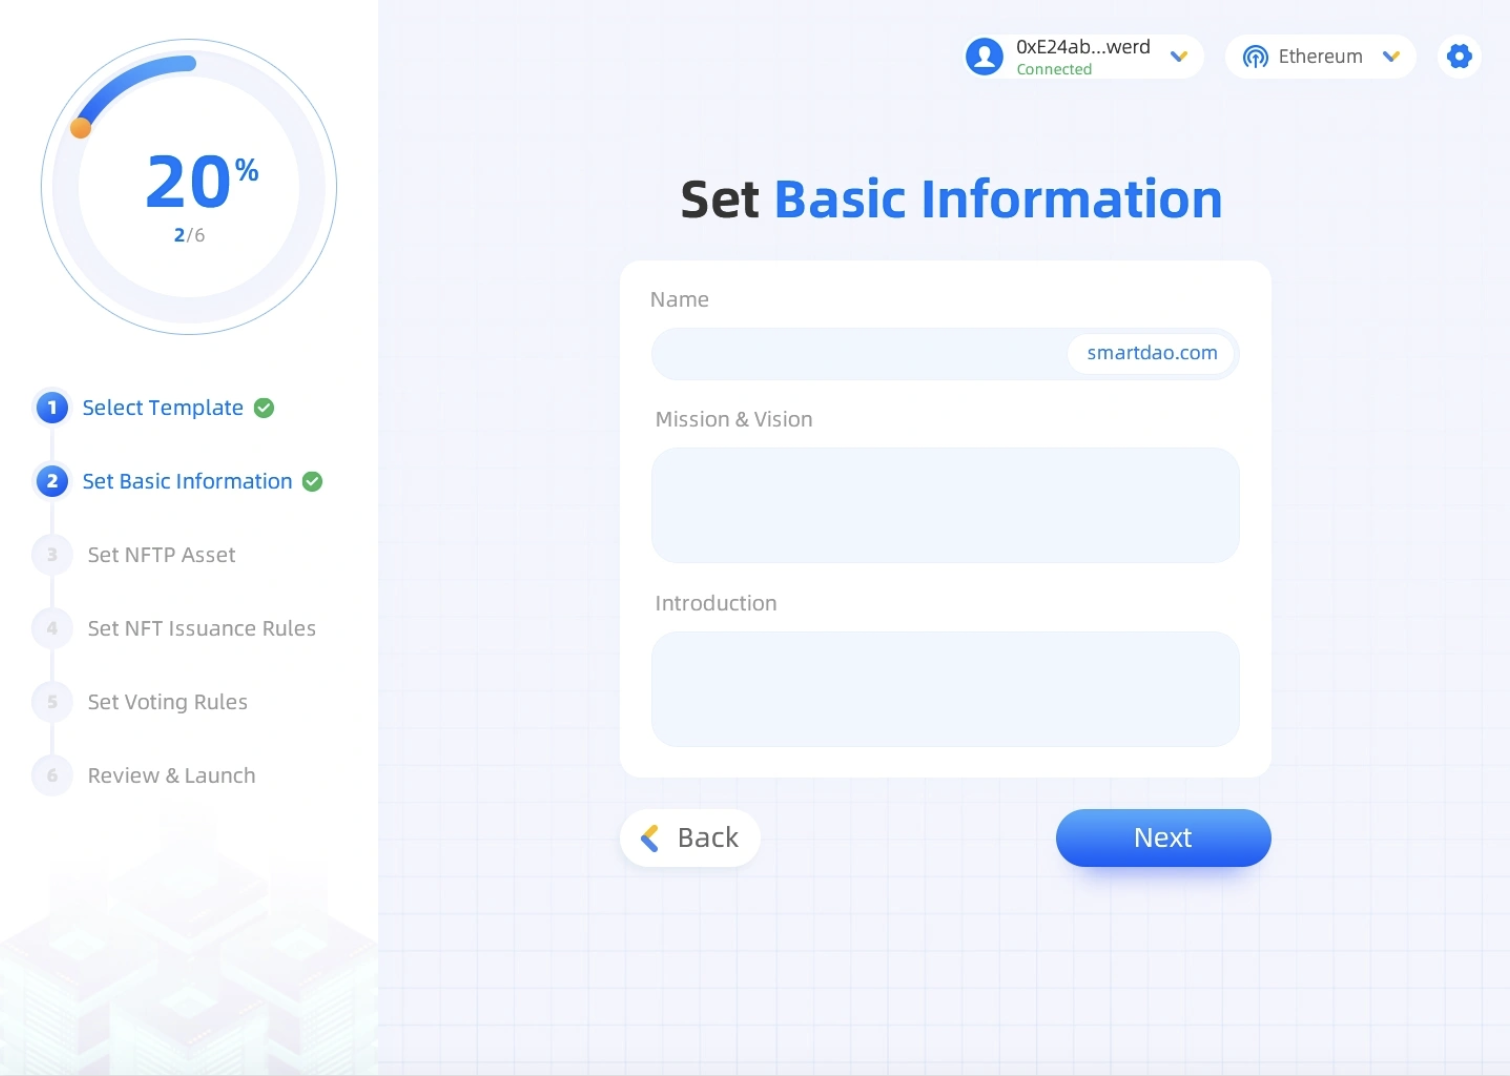
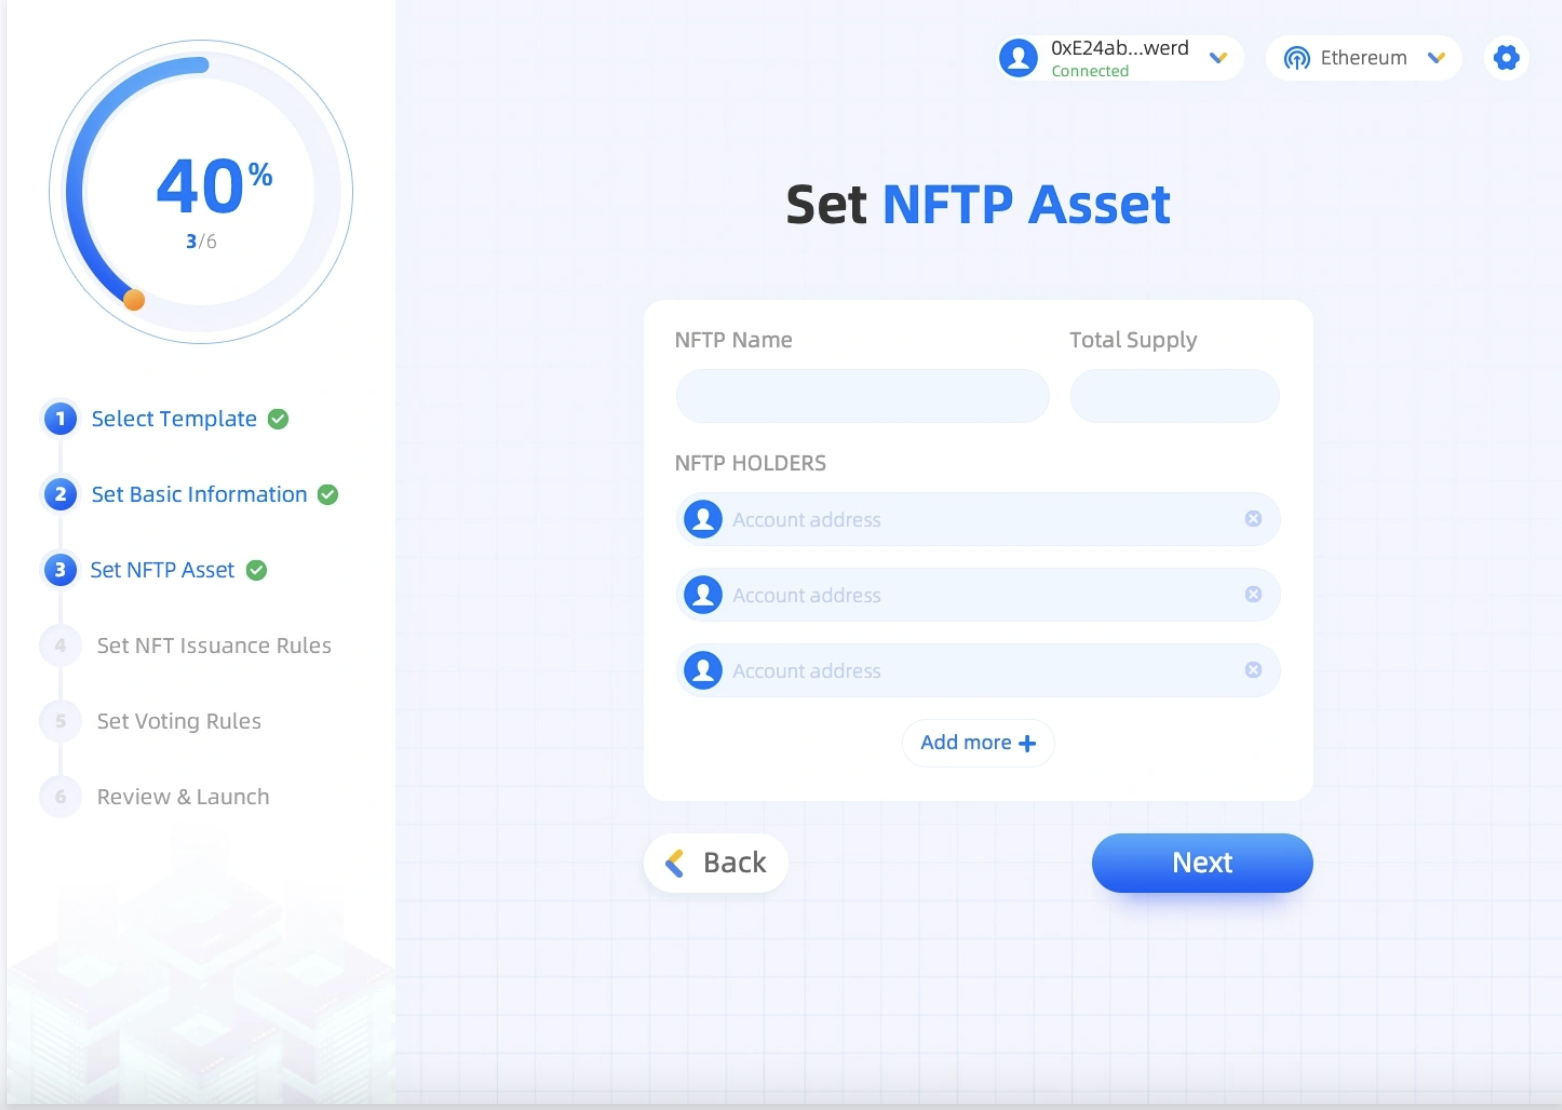
GitBook: [#27] No subject

diff --git a/SUMMARY.md b/SUMMARY.md
@@ -8,9 +8,9 @@
 * [⛳ 使用Launch启动DAO](guides/shi-yong-launch-qi-dong-dao/README.md)
   * [1⃣ 使用数字钱包登陆Launch](guides/shi-yong-launch-qi-dong-dao/1-shi-yong-shu-zi-qian-bao-deng-lu-launch.md)
   * [2⃣ 选择预制模版](guides/shi-yong-launch-qi-dong-dao/2-xuan-ze-yu-zhi-mo-ban.md)
-  * [3⃣ 设置DAO基本信息](guides/shi-yong-launch-qi-dong-dao/3-she-zhi-dao-ji-ben-xin-xi.md)
-  * [设置DAO初创成员并铸造NFTP](guides/shi-yong-launch-qi-dong-dao/she-zhi-dao-chu-chuang-cheng-yuan-bing-zhu-zao-nftp.md)
-  * [设置DAO分润模型](guides/shi-yong-launch-qi-dong-dao/she-zhi-dao-fen-run-mo-xing.md)
+  * [3⃣ 设置基本信息](guides/shi-yong-launch-qi-dong-dao/3-she-zhi-ji-ben-xin-xi.md)
+  * [4⃣ 设置初创成员并铸造NFTP](guides/shi-yong-launch-qi-dong-dao/4-she-zhi-chu-chuang-cheng-yuan-bing-zhu-zao-nftp.md)
+  * [5⃣ 设置DAO分润模型](guides/shi-yong-launch-qi-dong-dao/5-she-zhi-dao-fen-run-mo-xing.md)
   * [设置DAO投票模型](guides/shi-yong-launch-qi-dong-dao/she-zhi-dao-tou-piao-mo-xing.md)
   * [生成交易 DAO 信息上链](guides/shi-yong-launch-qi-dong-dao/sheng-cheng-jiao-yi-dao-xin-xi-shang-lian.md)
 * [⛳ 使用Dashboard管理DAO](guides/shi-yong-dashboard-guan-li-dao/README.md)

diff --git a/guides/shu-zi-qian-bao-cha-jian-zhun-bei.md b/guides/shu-zi-qian-bao-cha-jian-zhun-bei.md
@@ -1,5 +1,7 @@
 # ⛳ 数字钱包插件准备
 
+
+
 {% hint style="info" %}
 **Good to know:** You can use the mobile digital wallet app or metamask (chrome browser plugin) The metamask plugin is recommended.
 {% endhint %}
@@ -12,7 +14,7 @@
 
 #### :tada:[在Ethereum主网络中创建钱包：](https://chrome-extension/nkbihfbeogaeaoehlefnkodbefgpgknn/home.html#new-account)
 
-![](<../.gitbook/assets/image (6).png>)
+![](<../.gitbook/assets/image (6) (1).png>)
 
 ![](<../.gitbook/assets/image (5) (1).png>)
 
@@ -20,7 +22,7 @@
 
 ![](<../.gitbook/assets/image (4).png>)
 
-![](<../.gitbook/assets/image (7).png>)
+![](<../.gitbook/assets/image (7) (1).png>)
 
 ![](<../.gitbook/assets/image (1) (1).png>)
 

diff --git a/guides/shi-yong-launch-qi-dong-dao/5-she-zhi-dao-fen-run-mo-xing.md b/guides/shi-yong-launch-qi-dong-dao/5-she-zhi-dao-fen-run-mo-xing.md
@@ -1,0 +1,15 @@
+# 5⃣ 设置DAO分润模型
+
+{% hint style="info" %}
+**Good to know:**  分润模型中涉及到两个核心参数：
+
+**1.Asset issuance tax  资产发行费，指成员在DAO内发行NFT资产、首发并售卖成功后收取的成交金额比例。**
+
+**2.Asset circulation tax 资产流通费，指DAO资产发生二次流通时收取的成交金额比例。**
+{% endhint %}
+
+
+
+1.设置Asset issuance tax、Asset circulation tax 参数:
+
+<figure><img src="../../.gitbook/assets/image (6).png" alt=""><figcaption></figcaption></figure>

diff --git a/guides/shi-yong-launch-qi-dong-dao/2-xuan-ze-yu-zhi-mo-ban.md b/guides/shi-yong-launch-qi-dong-dao/2-xuan-ze-yu-zhi-mo-ban.md
@@ -8,6 +8,6 @@
 #### Company： 使用可转让平台代币代表您在组织的所有权。决策是基于权益加权投票做出的
 {% endhint %}
 
-1.选择模版（此处演示我们选择Membership模版）
+1.选择模版（此处演示我们选择Membership模版）:
 
 <figure><img src="../../.gitbook/assets/image (1).png" alt=""><figcaption></figcaption></figure>

diff --git a/guides/shi-yong-launch-qi-dong-dao/4-she-zhi-chu-chuang-cheng-yuan-bing-zhu-zao-nftp.md b/guides/shi-yong-launch-qi-dong-dao/4-she-zhi-chu-chuang-cheng-yuan-bing-zhu-zao-nftp.md
@@ -1,0 +1,10 @@
+# 4⃣ 设置初创成员并铸造NFTP
+
+{% hint style="info" %}
+**Good to know:** [什么是NFTP](../../extras/what-is-nftp.md)
+{% endhint %}
+
+1.设置NFTP资产名称，并设置成员在同一网络(本演示为ETHEREUM网络)中的钱包地址:
+
+<figure><img src="../../.gitbook/assets/image.png" alt=""><figcaption></figcaption></figure>
+

diff --git a/guides/shi-yong-launch-qi-dong-dao/3-she-zhi-ji-ben-xin-xi.md b/guides/shi-yong-launch-qi-dong-dao/3-she-zhi-ji-ben-xin-xi.md
@@ -1,0 +1,5 @@
+# 3⃣ 设置基本信息
+
+1.输入DAO的名称、愿景使命、DAO简介信息:
+
+<figure><img src="../../.gitbook/assets/image (7).png" alt=""><figcaption></figcaption></figure>
